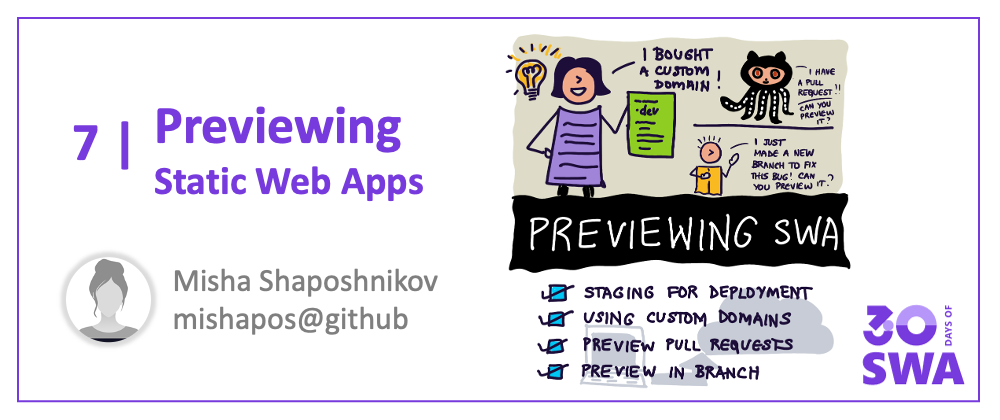
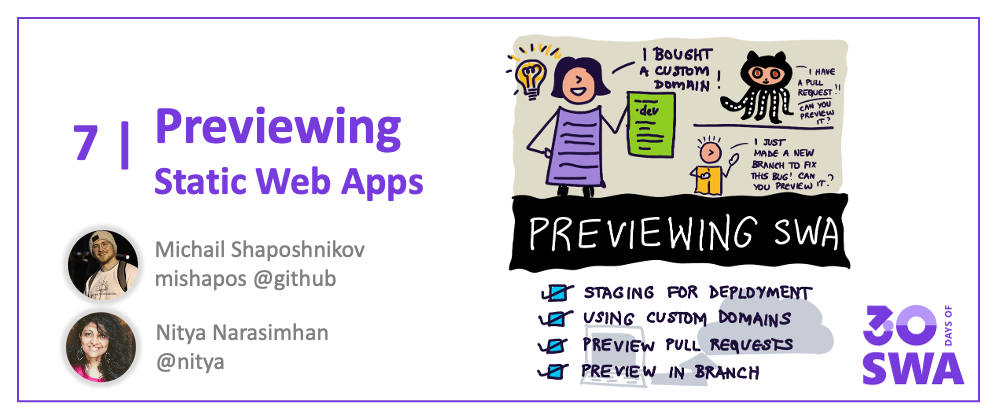
Initial Draft: Week 1 - Day 6

Changed region(s): [[0.062, 0.5262, 0.434, 0.9286]]

diff --git a/www/blog/2021-05-07.md b/www/blog/2021-05-07.md
@@ -1,21 +1,98 @@
 ---
 slug: previewing-swa
 title: "#06: Previewing SWA"
-authors: [michail]
+authors: [nitya, michail]
 tags: [swa, 30days, core-concepts]
 draft: true 
 ---
 
 Welcome to `Week 1, Day 6` of **#30DaysOfSWA**!! 
 
-Yesterday we talked about .... Today we'll explore ...
+We're almost at the end of week 1!! 🎉 
+
+So far, we've learned how we can use the _static assets hosting_ (Azure Static Web Apps) and _serverless API_ (Azure Functions) capabilities to build and deploy a web application in a scalable and cost-effective way. And we learned to _configure_ and _secure_ our Static Web App to suit our needs. So what else do we need to talk about?
+
+**Deployment** options? Let's do it!! We've talked about the default experience so far: deploy from a _production_ branch, using _GitHub_ Actions for CI/CD. But how do we handle **previewing** the Static Web App before production deploys? Let's talk about previewing SWA in pull requests, on non-production branches, and in pre-configured named environments that make our staging workflows more productive.
 
 
 ## What We'll Cover
- * 
- * 
- * 
- * **Exercise** 
- * **Resource(s):** 
+ * What types of deployment does SWA support?
+ * _Previewing_: in Pull Requests
+ * _Previewing_: in Non-Production Branches
+ * _Previewing_: in Named Environments
+ * _Deploying_: to Custom Domains
+ * **Exercise:** [Review PR using SWA Preview Capability](https://docs.microsoft.com/en-us/azure/static-web-apps/review-publish-pull-requests)
 
 ![](../static/img/series/06-banner.png)
+
+## Deployment Types
+
+When we think about deployment, we are typically thinking of two kinds of environments: _production_ which serve as the primary endpoint for real world use, and _staging_  that can be used for internal testing, early validation of preview releases.
+
+Azure Static Web Apps has built-in support for four types of environments:
+
+ * _Production_: This is the real world deployment endpoint that is **indexed by search engines**, and associated with the custom domain (if configured).
+ * _Pull Request (PR)_: This is a **temporary** environment setup for a Pull Request, and torn down when that PR is closed.
+ * _Branch_: This is a environment you can set up for non-production branches, at a **stable** URL for the lifetime of the branch.
+ * _Named_: The above environments have URLs that reflect their PR (number) or branch (name). You can also configure a **stable** preview environment with a fixed name, associated with some deployment context (e.g., an interim release)
+
+Production deploys have URLs like `<DEFAULT-HOSTNAME>-<NUMBER>.azurestaticapps.net` where the `HOSTNAME-NAME` combination ensures a unique URL for each application. 
+
+When using _preview_ environments, the URL becomes something like: `<DEFAULT_HOST_NAME>-<BRANCH_OR_ENVIRONMENT_NAME>.<LOCATION>.azurestaticapps.net` where the `LOCATION` reflects the deployment region, and the `NAME` can take the form of a number (e.g., for pull requests).
+
+Let's take a brief look at each of these.
+
+
+## Pull Requests
+
+Currently Pull Request _preview environments_ are available for projects hosted in GitHub, and configured to use GitHub Actions by Azure Static Web Apps:
+  * Every PR to a _watched branch_ gets a dedicated but **temporary** pre-production staging environment that is torn down when the PR is closed.
+  * Use these to validate changes, compare to production, or perform sanity checks.
+  * The environment is automatically rebuilt and deployed if new commits are pushed to the branch associated with an active PR.
+  * The staged environment is _publicly visible_ event if your GitHub repo is private, though the URL is not easily discoverable (i.e., not indexed by search engines).
+
+Learn more about [previewing Pull Requests in Azure Static Web Apps](https://docs.microsoft.com/en-us/azure/static-web-apps/review-publish-pull-requests).
+
+
+## Branches
+
+Preview environments for branches will have **stable** URLs. Configure them in the relevant _GitHub Actions_ or _Azure Pipelines_ workflow files as [shown in this example](https://docs.microsoft.com/en-us/azure/static-web-apps/branch-environments?tabs=github-actions#example). This involves two steps:
+ * set the `production_branch` property to the branch you want to deploy for real-world usage in the relevant build/deploy job.
+ * list all other branches that you want preview environments for under `trigger` (Azure Pipelines) or `push: branches` (in GitHub Actions).
+ * You can use a wildcare (`**` for GitHub Actions, `*` for Azure Pipelines) if you want to track _all_ branches for preview environment support.
+
+Learn how to [create branch preview environments in Azure Static Web Apps](https://docs.microsoft.com/en-us/azure/static-web-apps/branch-environments?tabs=github-actions).
+
+## Named Environments
+
+Learn about [named preview environments in Azure Static Web Apps](https://docs.microsoft.com/en-us/azure/static-web-apps/named-environments?tabs=github-actions)
+
+## Custom Domains
+
+---
+
+## How-Tos: Watch It!
+
+Prefer a Video Walkthrough to understand the process? We have you covered with the [Azure Tips And Tricks: Static Web Apps](https://docs.microsoft.com/en-us/shows/azure-tips-and-tricks-static-web-apps/) series. Check out this video to understand how you can setup a custom domain for your Static Web App!
+
+<iframe   width="560" height="315" frameborder="0"  src="https://aka.ms/docs/player?show=azure-tips-and-tricks-static-web-apps&ep=how-to-set-up-a-custom-domain-name-in-azure-static-web-apps-10-of-16--azure-tips-and-tricks-static-w"></iframe>
+
+---
+
+## Exercise: Try it!
+
+**Pull Requests** are critical to having a productive open source or multi-contributor project, so it's important to know how Azure Static Apps works in setting up **pre-production** environments for validating the changes proposed in a pull-request, before merging it for production deployment.
+
+Get hands-on experience with the process by completing [this tutorial](https://docs.microsoft.com/en-us/azure/static-web-apps/review-publish-pull-requests) on an existing Azure Static Web Apps project. 
+
+_At present, the staged pre-production environment for Pull Requests is available only for GitHub Actions deployments - so make sure you pick a GitHub-hosted SWA project that already had the default workflows set up_.
+
+---
+
+## Useful Resources
+
+1. [Preview environments in Azure Static Web Apps](https://docs.microsoft.com/en-us/azure/static-web-apps/preview-environments)
+2. [Pull-Request Preview Environments](https://docs.microsoft.com/en-us/azure/static-web-apps/review-publish-pull-requests)
+3. [Branch Preview Environments](https://docs.microsoft.com/en-us/azure/static-web-apps/branch-environments)
+4. [Named Preview Environments](https://docs.microsoft.com/en-us/azure/static-web-apps/named-environments)
+5. Video Series: [Azure Tips And Tricks - Static Web Apps](https://docs.microsoft.com/en-us/shows/azure-tips-and-tricks-static-web-apps/)

diff --git a/www/blog/2021-05-08.md b/www/blog/2021-05-08.md
@@ -33,7 +33,7 @@ Deploying using Azure pipelines CI/CD has never been easier!
 
 Static Web Apps supports projects which are stored in Azure repos and helps in creating a smooth CI/CD pipeline to automatically trigger the changes on every commit to the main branch. What more? With the latest changes checked in for Azure DevOps, we can now set up the azure pipeline via Portal with a single click! Here’s a quick video demonstrating how to use DevOps as a pipeline, as well as touching on the numerous other enhancements brought in off-late, such as stable staging environments, password protected websites, build and deploy split, and lots more! 😊 
 
-<iframe width="711" height="400" src="https://www.youtube.com/embed/4JkfeZp7aDk" title="YouTube video player" frameborder="0" allow="accelerometer; autoplay; clipboard-write; encrypted-media; gyroscope; picture-in-picture" allowfullscreen></iframe>
+<iframe  width="560" height="315" frameborder="0" src="https://www.youtube.com/embed/4JkfeZp7aDk" title="YouTube video player" frameborder="0" allow="accelerometer; autoplay; clipboard-write; encrypted-media; gyroscope; picture-in-picture" allowfullscreen></iframe>
 
 
  
